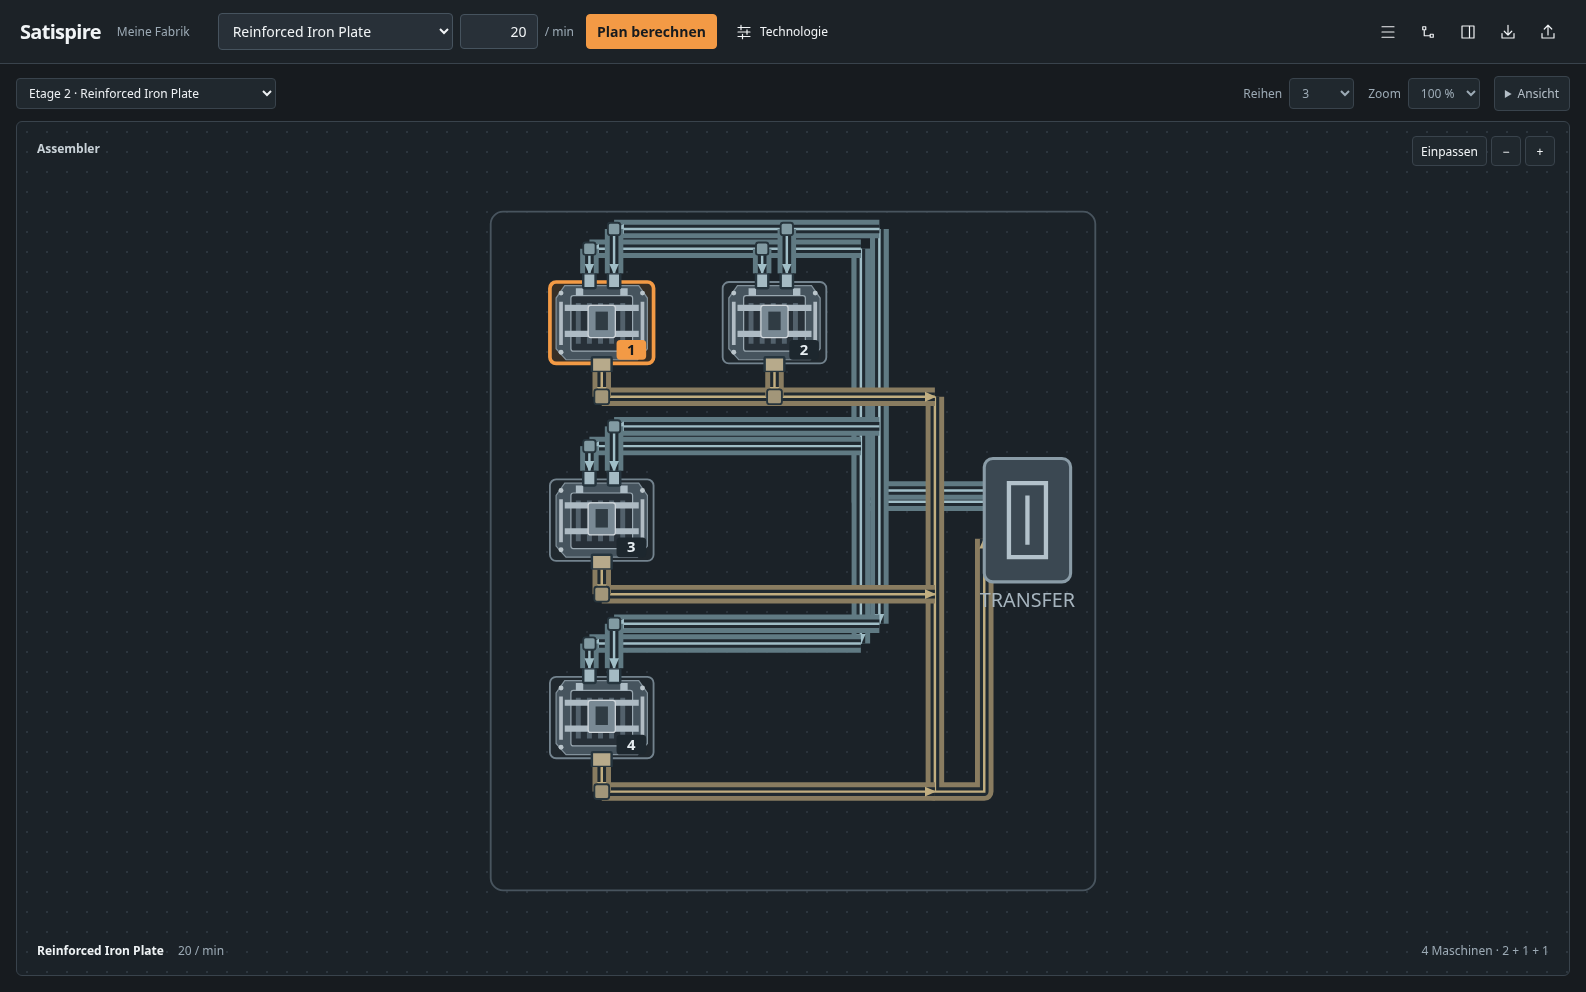
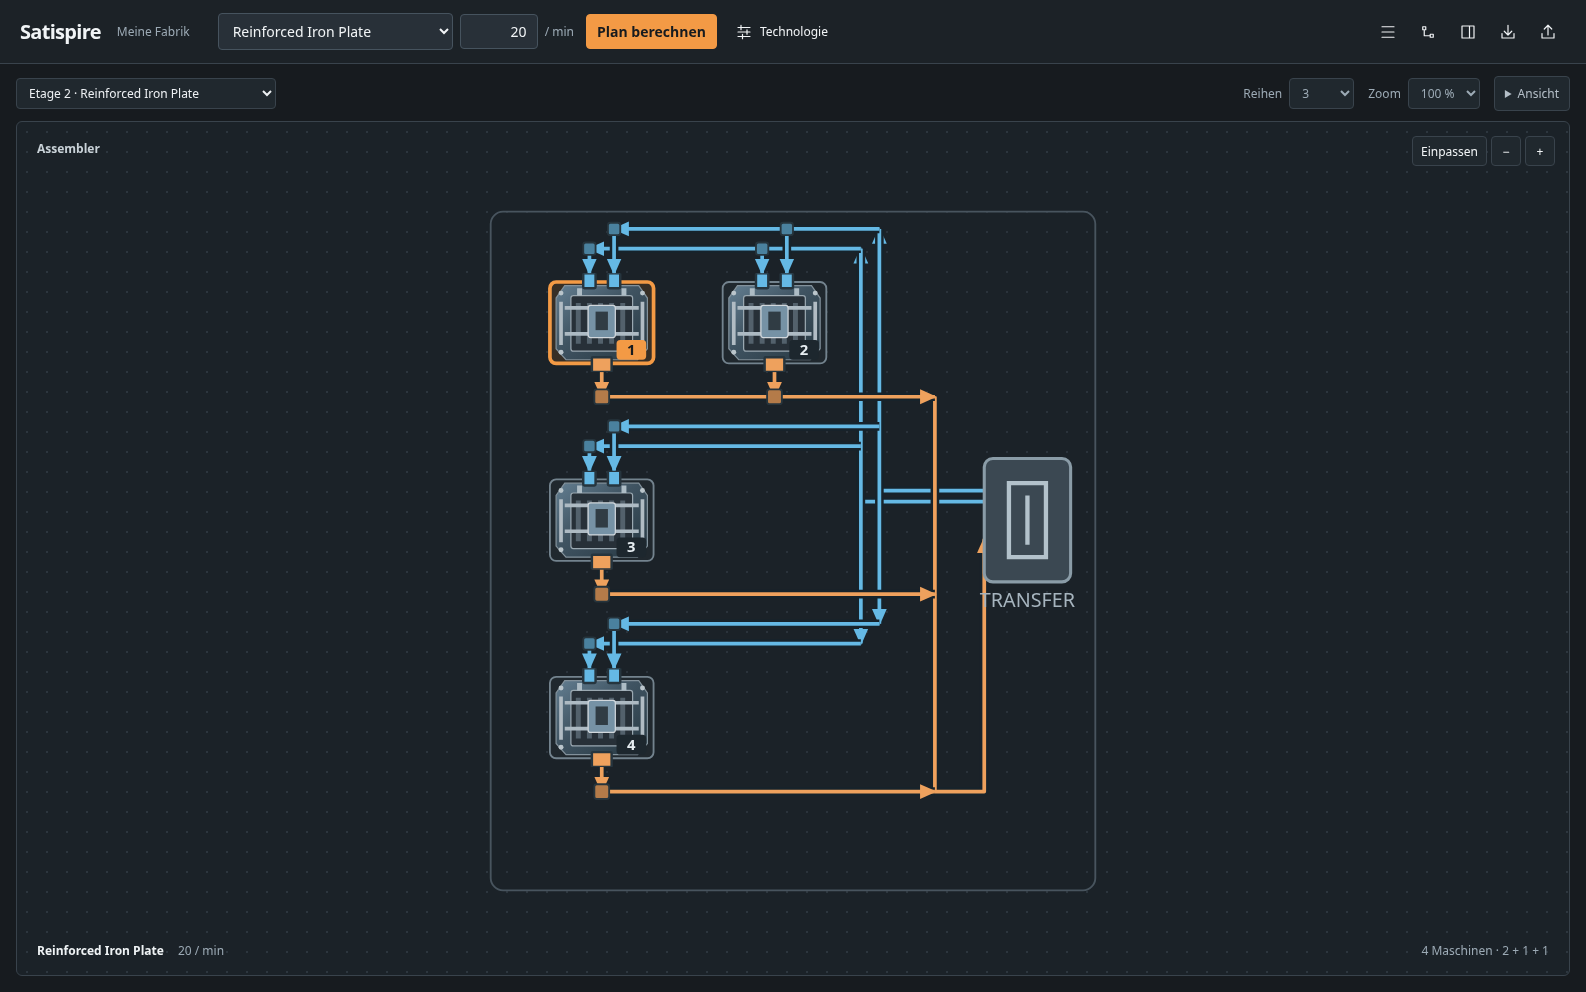
Refine directed flows and fit the full factory on mobile

Changed region(s): [[0.3398, 0.2188, 0.6488, 0.8125]]

diff --git a/web/workspace/FloorView.tsx b/web/workspace/FloorView.tsx
@@ -40,7 +40,6 @@ export function FloorView({
     x: 0,
     y: 0,
     scale: 1,
-    overview: false,
   });
   const drag = useRef<{
     x: number;
@@ -60,14 +59,9 @@ export function FloorView({
   const sceneWidth = transferX + 12;
   const sceneHeight = maxY + 13;
   const scale = zoom * camera.scale;
-  const framedWidth =
-    compact && !camera.overview ? Math.min(sceneWidth, 58) : sceneWidth;
-  const viewWidth = framedWidth / scale;
+  const viewWidth = sceneWidth / scale;
   const viewHeight = sceneHeight / scale;
-  const viewX =
-    (compact && !camera.overview
-      ? (framedWidth - viewWidth) / 2
-      : (sceneWidth - viewWidth) / 2) + camera.x;
+  const viewX = (sceneWidth - viewWidth) / 2 + camera.x;
   const viewY = (sceneHeight - viewHeight) / 2 + camera.y;
   const top = floor.machines[0]!.y - 3;
   const bottom = maxY + 3;
@@ -79,23 +73,17 @@ export function FloorView({
       <path
         d={d}
         fill="none"
-        stroke={output ? '#897c60' : '#607a83'}
-        strokeWidth="1.5"
+        stroke="#17232b"
+        strokeWidth="0.7"
         strokeLinejoin="round"
       />
       <path
         className="supply-belt-edge"
         d={d}
         fill="none"
-        stroke="#202a31"
-        strokeWidth="0.7"
+        stroke={output ? '#eea15d' : '#65b9e5'}
+        strokeWidth="0.3"
         strokeLinejoin="round"
-      />
-      <path
-        d={d}
-        fill="none"
-        stroke={output ? '#c1ae80' : '#a0bec7'}
-        strokeWidth="0.2"
         markerEnd={`url(#${marker}-${output ? 'out' : 'in'})`}
       />
     </g>
@@ -108,9 +96,7 @@ export function FloorView({
       <div className="floor-canvas-tools">
         <button
           type="button"
-          onClick={() =>
-            setCamera({ x: 0, y: 0, scale: 1 / zoom, overview: true })
-          }
+          onClick={() => setCamera({ x: 0, y: 0, scale: 1 / zoom })}
           aria-label="Schema einpassen"
         >
           Einpassen
@@ -119,7 +105,10 @@ export function FloorView({
           type="button"
           aria-label="Verkleinern"
           onClick={() =>
-            setCamera((c) => ({ ...c, scale: Math.max(0.4, c.scale / 1.2) }))
+            setCamera((c) => ({
+              ...c,
+              scale: Math.max(0.4, c.scale / (compact ? 1.5 : 1.2)),
+            }))
           }
         >
           −
@@ -128,7 +117,10 @@ export function FloorView({
           type="button"
           aria-label="Vergrößern"
           onClick={() =>
-            setCamera((c) => ({ ...c, scale: Math.min(4, c.scale * 1.2) }))
+            setCamera((c) => ({
+              ...c,
+              scale: Math.min(4, c.scale * (compact ? 1.5 : 1.2)),
+            }))
           }
         >
           +
@@ -196,7 +188,7 @@ export function FloorView({
               >
                 <path
                   d="M0 1L9 5L0 9Z"
-                  fill={kind === 'in' ? '#a0bec7' : '#c1ae80'}
+                  fill={kind === 'in' ? '#65b9e5' : '#eea15d'}
                 />
               </marker>
             ))}
@@ -264,7 +256,7 @@ export function FloorView({
                           width="1"
                           height="1"
                           rx="0.2"
-                          fill="#829ba3"
+                          fill="#4a819e"
                           stroke="#26343c"
                           strokeWidth="0.15"
                         />
@@ -278,7 +270,7 @@ export function FloorView({
                       width="1.2"
                       height="1.2"
                       rx="0.2"
-                      fill="#a29679"
+                      fill="#b47b49"
                       stroke="#26343c"
                       strokeWidth="0.15"
                     />

diff --git a/web/workspace/MachineGlyph.tsx b/web/workspace/MachineGlyph.tsx
@@ -1,3 +1,5 @@
+import { useId } from 'react';
+
 /** Original industrial symbols. Ports and proportions are schematic. */
 export function MachineGlyph({
   machineId,
@@ -10,6 +12,7 @@ export function MachineGlyph({
   number?: number;
   feeds?: number;
 }) {
+  const surface = useId().replace(/:/g, '');
   const family = machineId.toLowerCase();
   const furnace = /smelter|foundry/.test(family);
   const assembly = /assembler|manufacturer/.test(family);
@@ -22,6 +25,13 @@ export function MachineGlyph({
       className={`machine-glyph${selected ? ' selected' : ''}`}
       aria-hidden="true"
     >
+      <defs>
+        <linearGradient id={surface} x1="0" y1="0" x2="1" y2="1">
+          <stop offset="0" stopColor="#637e91" />
+          <stop offset="0.45" stopColor="#3f5361" />
+          <stop offset="1" stopColor="#273842" />
+        </linearGradient>
+      </defs>
       <rect
         className="machine-base"
         x="8"
@@ -36,7 +46,7 @@ export function MachineGlyph({
       <path
         className="machine-body"
         d="M20 10H80L87 20V61L79 70H21L13 61V20Z"
-        fill="#46545e"
+        fill={`url(#${surface})`}
         stroke="#82919b"
         strokeWidth="1"
       />
@@ -118,7 +128,7 @@ export function MachineGlyph({
             className="machine-rail"
             d="M20 28H80M20 49H80"
             stroke="#adbac3"
-            strokeWidth="5"
+            strokeWidth="3"
           />
           <rect
             className="machine-body"
@@ -127,7 +137,7 @@ export function MachineGlyph({
             width="22"
             height="26"
             rx="2"
-            fill="#798994"
+            fill="#7692a5"
             stroke="#d1d7dc"
           />
           <rect
@@ -142,7 +152,7 @@ export function MachineGlyph({
             className="machine-detail"
             d="M32 12V18M68 12V18"
             stroke="#adbcc5"
-            strokeWidth="6"
+            strokeWidth="4"
           />
         </>
       ) : constructor ? (
@@ -168,7 +178,7 @@ export function MachineGlyph({
             d="M22 20H78V32H60"
             fill="none"
             stroke="#abb8c1"
-            strokeWidth="7"
+            strokeWidth="4"
           />
           <rect
             className="machine-body"
@@ -177,7 +187,7 @@ export function MachineGlyph({
             width="20"
             height="22"
             rx="2"
-            fill="#83949e"
+            fill="#7699ae"
             stroke="#d0d8dd"
           />
           <circle
@@ -245,7 +255,7 @@ export function MachineGlyph({
             width={width}
             height="12"
             rx="1"
-            fill="#a5bbc4"
+            fill="#65b9e5"
             stroke="#26353e"
             strokeWidth="2"
           />
@@ -258,7 +268,7 @@ export function MachineGlyph({
         width="16"
         height="12"
         rx="1"
-        fill="#b7aa8b"
+        fill="#eea15d"
         stroke="#26353e"
         strokeWidth="2"
       />

diff --git a/tests/browser/workspace.spec.ts b/tests/browser/workspace.spec.ts
@@ -73,11 +73,22 @@ test('mobile camera reveals keyboard-selected machines and recovers after zoom a
     name: 'Constructor 6',
     exact: true,
   });
+  const sceneBox = (await scene.boundingBox())!;
+  const transferBox = (await page
+    .getByLabel('Symbolischer Etagenübergang')
+    .boundingBox())!;
+  expect(transferBox.x).toBeGreaterThanOrEqual(sceneBox.x);
+  expect(transferBox.x + transferBox.width).toBeLessThanOrEqual(
+    sceneBox.x + sceneBox.width,
+  );
+  const overview = await scene.getAttribute('viewBox');
+  for (let i = 0; i < 3; i++) {
+    await page.getByRole('button', { name: 'Vergrößern', exact: true }).click();
+  }
   await machine.focus();
   await page.keyboard.press('Enter');
   await expect(machine).toHaveAttribute('aria-pressed', 'true');
   const machineBox = (await machine.boundingBox())!;
-  const sceneBox = (await scene.boundingBox())!;
   expect(machineBox.x + machineBox.width / 2).toBeGreaterThan(sceneBox.x);
   expect(machineBox.x + machineBox.width / 2).toBeLessThan(
     sceneBox.x + sceneBox.width,
@@ -89,6 +100,7 @@ test('mobile camera reveals keyboard-selected machines and recovers after zoom a
     .getByRole('button', { name: 'Schema einpassen', exact: true })
     .click();
   const fittedView = await scene.getAttribute('viewBox');
+  expect(fittedView).toBe(overview);
   expect(Number(fittedView!.split(' ')[2])).toBeGreaterThan(58);
   await page.mouse.move(sceneBox.x + 10, sceneBox.y + 10);
   await page.mouse.down();

diff --git a/web/workspace/workspace.css b/web/workspace/workspace.css
@@ -937,8 +937,8 @@ input[type='checkbox'] {
 }
 @media (max-width: 640px) {
   .floor-panel {
-    min-height: 480px;
-    height: min(570px, calc(100dvh - 180px));
+    min-height: 360px;
+    height: min(440px, calc(100dvh - 180px));
   }
   .views,
   .views:has(.graph-panel) {

diff --git a/docs/qa/visual-correction-2026-10-11.md b/docs/qa/visual-correction-2026-10-11.md
@@ -6,11 +6,12 @@ This is a reviewable visual correction of the existing workspace from confirmed 
 
 - [Desktop, panels closed](vanilla-desktop.png): 1586 × 992.
 - [Desktop, graph and inspector open](vanilla-panels.png): 1586 × 992.
-- [Mobile initial working view](vanilla-mobile.png): 390 × 844.
+- [Mobile initial complete-factory fit](vanilla-mobile.png): 390 × 844.
+- [Mobile zoomed working view](vanilla-mobile-zoom.png): 390 × 844.
 - [Mobile secondary settings sheet](vanilla-mobile-sheet.png): 390 × 844.
 - [Assembler with two connected symbolic feeds](vanilla-assembler.png): 1586 × 992.
 
-All five images were opened and visually inspected in this executor after capture. The first mobile capture failed the visual criterion: a tiny whole factory remained centered in a tall grid. The revised mobile start uses a readable horizontal working window and a shorter content canvas; full overview remains reachable with Einpassen. No claim of pixel-identical reference comparison is made: the supported Library materialization returned references, but both authenticated byte transfers failed again. Neither original A nor B was readable here. The parent has already viewed them and supplied the explicit visual comparison. The parent subsequently confirmed original A is exactly 1586 × 992 pixels (PNG, 1,621,060 bytes). Desktop captures now use those exact pixel dimensions. Direct comparison with the actual original remains assigned to the parent; these same-size captures do not claim that comparison is already complete.
+All six images were opened and visually inspected in this executor after capture. The first mobile capture failed the visual criterion: a tiny whole factory remained centered in a tall grid. The first revision used a readable horizontal working window. Direct parent review then identified the initially clipped transfer; the current revision starts with the whole block fitted, uses a shorter canvas, and offers larger 1.5× mobile zoom steps for a readable working view. Pan, keyboard focus-pan and Einpassen recover all content. No claim of pixel-identical reference comparison is made: the supported Library materialization returned references, but both authenticated byte transfers failed again. Neither original A nor B was readable here. The parent has already viewed them and supplied the explicit visual comparison. The parent subsequently confirmed original A is exactly 1586 × 992 pixels (PNG, 1,621,060 bytes). Desktop captures now use those exact pixel dimensions. The parent directly compared 8427afb with original A: machine identities, connected ports, selection and occupancy improved, but broad pale triple rails and heavy flat symbols remained weak. The current follow-up replaces those rails with thin blue/orange directed paths, adds subtle authored steel shading and reduces heavy rails. Approval of the follow-up remains pending.
 
 ## Criteria checked against the actual images
 
@@ -18,15 +19,15 @@ All five images were opened and visually inspected in this executor after captur
 2. **Canvas occupancy and hierarchy.** The 16-Constructor 6+5+5 block uses the available desktop area. The large dashed unused floor/shaft areas were removed; a quiet solid boundary frames occupied content. A single individual machine has the strong orange selection. The same stage is selected in the optional graph; the inspector shows the same family and machine number.
 3. **Integrated controls.** Production target, exact rate, calculation and technology share the desktop header. Stage, row variant and view controls sit in one compact canvas row. Title and rate/count metadata float inside the canvas rather than adding full-width title/footer bands. No exclusions, development-status sentences or catalog editing were added.
 4. **Content-sized optional panels.** Graph occupies a compact horizontal tray beneath the canvas. Inspector height follows its content and uses the selected machine symbol. No tall empty framed graph/inspector column.
-5. **Mobile working view.** Canvas starts below 190 px; row/zoom settings move into an Escape-dismissible sheet. Initial working crop keeps glyphs readable; pointer pan, wheel/button zoom, keyboard focus-pan and Einpassen provide access to the rest. Complete-factory fit is an intentional optional overview, not the initial mobile working scale.
+5. **Mobile working view.** Canvas starts below 190 px; row/zoom settings move into an Escape-dismissible sheet. Initial fit includes the rightmost machines and transfer; two 1.5× zoom steps provide a larger working scale. Pointer pan, wheel/button zoom, keyboard focus-pan and Einpassen provide access and recovery. The canvas height is bounded to avoid a tall empty overview grid.
 
 ## Functional evidence
 
 Fresh full checks: 309 unit tests plus formatting, lint, strict types, TypeScript build, compiled CLI/MCP smoke and client/server web build. All 21 Chromium cases pass, including four new visual-interaction regressions: coordinated individual selection, compact mobile controls/sheet, off-screen keyboard selection and camera recovery, separate assembler feeds.
 
-The selection regression first failed before wiring the root selection callback. The mobile compact-controls regression first failed with drawing y=228, above its allowed 190 px. The focus-pan regression was also checked red/green by temporarily disabling focus-pan: Constructor 6 remained at x≈506 beyond the visible right edge x=365; restored implementation passes. Existing repeated calculation, invalid/import recovery, interrupted import, profile transaction, alternate recipes, resource-policy handling and live WebMCP cases remain covered.
+The selection regression first failed before wiring the root selection callback. The mobile compact-controls regression first failed with drawing y=228, above its allowed 190 px. The focus-pan regression was also checked red/green by temporarily disabling focus-pan: Constructor 6 remained at x≈506 beyond the visible right edge x=365; restored implementation passes. The initial-fit regression additionally failed with the transfer right edge at x≈649 beyond the viewport right x=365 before the correction; it passes after fitting all content by default. Existing repeated calculation, invalid/import recovery, interrupted import, profile transaction, alternate recipes, resource-policy handling and live WebMCP cases remain covered.
 
-The independent read-only review found no material selection, profile/import, motion, feed-connectivity or security regression. External Codex normal/Security reviews and GitHub CI still need confirmation against the published new head; this file is evidence of local checks, not external approval.
+The independent read-only review found no material selection, profile/import, motion, feed-connectivity or security regression. External Codex normal/Security reviews completed without findings for 8427afb, and CI passed for that commit. The current quality follow-up requires fresh reviews/CI against its published head; this file is evidence of local checks, not external approval.
 
 ## Limits and ownership
 

diff --git a/docs/design-contract.md b/docs/design-contract.md
@@ -36,4 +36,4 @@ The explicitly authorized Cloud restart preserves PR13 and PR14 and favors imple
 
 ## Explicit visual correction
 
-The user rejected the previous visual implementation while retaining the reduced text and existing functionality. The new candidate uses original industrial schematic machine silhouettes, connected symbolic feed/output ports, junctions, directed row manifolds and a compact east transfer module. Strong orange selection identifies one individual machine and links its stage to the graph and inspector. The desktop planning form is integrated into the header; graph is a bottom tray, inspector follows content height, and mobile secondary settings use a sheet. Mobile starts with a readable working crop and supports fit, zoom, pan and keyboard focus-pan. These diagram symbols are not verified physical geometry or game assets. The parent's actual A/B inspection informs the supplied criteria; Cloud byte access remains blocked and does not count as image inspection. See [actual captures and verification](qa/visual-correction-2026-10-11.md). This candidate is not claimed to be user-accepted.
+The user rejected the previous visual implementation while retaining the reduced text and existing functionality. The new candidate uses original industrial schematic machine silhouettes, connected symbolic feed/output ports, junctions, directed row manifolds and a compact east transfer module. Strong orange selection identifies one individual machine and links its stage to the graph and inspector. The desktop planning form is integrated into the header; graph is a bottom tray, inspector follows content height, and mobile secondary settings use a sheet. Following direct parent comparison, mobile starts with a complete-factory fit including the transfer; larger mobile zoom steps, pan and keyboard focus-pan provide a readable working view. Thin blue/orange connections and subtle authored steel shading reduce the heavy pale rails and flat machine surfaces identified in that review. These diagram symbols are not verified physical geometry or game assets. The parent's actual A/B inspection informs the supplied criteria; Cloud byte access remains blocked and does not count as image inspection. See [actual captures and verification](qa/visual-correction-2026-10-11.md). This candidate is not claimed to be user-accepted.
